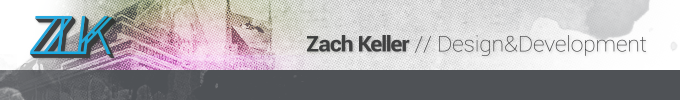
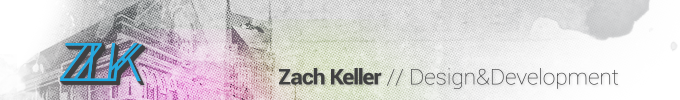
responsive styling changes, tablet hero div added

diff --git a/tablet.css b/tablet.css
@@ -178,13 +178,7 @@ body {
 }
 
 .nav {
-   margin: 0 auto;
- /*  float: left;*/
-   padding-top: 55px;
-   padding-right: 750px;
-   width: 320px;
-   height: 35px;
-   z-index: 9000;
+  display: none;
 }
 
 .footernav {
@@ -249,9 +243,22 @@ body {
   /* z-index: 9999;*/
 }
 
+.tablet_hero {
+  width: 500px;
+  height: 136px;
+  margin-top: 150px;
+}
+
 
 .content {
    width: 768px;
+   margin: 0 auto;
+  /* padding-bottom: 30px;*/
+   background-repeat: no-repeat;
+}
+
+#portfolio {
+   width: 600px;
    margin: 0 auto;
   /* padding-bottom: 30px;*/
    background-repeat: no-repeat;
@@ -262,7 +269,7 @@ body {
 }*/
 
 .story {
-   width: 768px;
+   width: 600px;
    margin-right: auto;
    margin-left: auto;
    /*padding: 25px 15px 75px 15px;*/
@@ -270,11 +277,12 @@ body {
 }
 
 .story_left {
-   width: 700px;
+   width: 500px;
    /*margin-right: auto;
    margin-left: auto;*/
-   /*padding: 25px 20px 75px 20px;*/
+   padding: 25px 20px 25px 20px;
    /*float: left;*/
+   margin-left: 25px;
    margin-top: 150px;
    background: rgba(255, 255, 255, .6);
 }
@@ -298,10 +306,11 @@ body {
 }
 
 .story_right {
-   width: 700px;
+   width: 500px;
    /*margin-right: auto;
    margin-left: auto;*/
-   padding: 25px 20px 75px 20px;
+   margin-left: 25px;
+   padding: 25px 20px 25px 20px;
   /* float: right;*/
    background: rgba(255, 255, 255, .6);
 }
@@ -323,6 +332,14 @@ a.fancybox {
   padding: 25px 0px 150px 0px;
 }
 
+.contact h1{
+  margin-left: 50px;
+}
+
+form h2 {
+  margin-left: 50px;
+}
+
 input {
  /* width: 400px;*/
   height: 30px;
@@ -334,6 +351,7 @@ input {
  /* width: 400px;*/
   height: 150px;
   margin-bottom: 15px;
+  width: 450px;
 }
 
 input[type=text] {
@@ -343,7 +361,8 @@ input[type=text] {
   font-weight: normal;
   font-size: 15px;
   color: #4f5256;
-  margin-left: 10px;
+  margin-left: 50px;
+  width: 450px;
 }
 
 input[type=name] {
@@ -353,7 +372,8 @@ input[type=name] {
   font-weight: normal;
   font-size: 15px;
   color: #4f5256;
-  margin-left: 10px;
+  margin-left: 50px;
+  width: 450px;
 }
 
 input[type=email] {
@@ -363,7 +383,8 @@ input[type=email] {
   font-weight: normal;
   font-size: 15px;
   color: #4f5256;
-  margin-left: 10px;
+  margin-left: 50px;
+  width: 450px;
 }
 
 button {
@@ -377,7 +398,7 @@ button {
   font-size: 18px;
   font-weight: normal;
   color: #404040;
- /* line-height: 15px;*/
+  margin-left: 50px;
 }
 
 button:hover {

diff --git a/stylesheet.css b/stylesheet.css
@@ -248,6 +248,9 @@ body {
    z-index: 9999;
 }
 
+#tablet_hero {
+  display: none;
+}
 
 .content {
    width: 1125px;
@@ -297,10 +300,9 @@ body {
 
 .story_right {
    width: 500px;
-   margin-right: auto;
-   margin-left: auto;
+   margin-left: 40px;
    padding: 25px 20px 75px 20px;
-   float: right;
+   float: left;
    background: rgba(255, 255, 255, .6);
 }
 

diff --git a/index.html b/index.html
@@ -66,7 +66,13 @@
 
 			<!-- SLIDER markup ENDS here -->
 
+
+
 			<div class="content">
+				<!-- hero image for tablet.css -->
+				<div id="tablet_hero">
+					<img src="images/hero_tablet.jpg">
+				</div>
 				<!--<img src="images/divider.png">-->
 				<div class="story_left">
 					<p><h1>Hello. I'm Zach.</h1></p>

diff --git a/smartphone.css b/smartphone.css
@@ -240,6 +240,10 @@ body {
   /* z-index: 9999;*/
 }
 
+#tablet_hero {
+  display: none;
+}
+
 
 .content {
    width: 100%;
